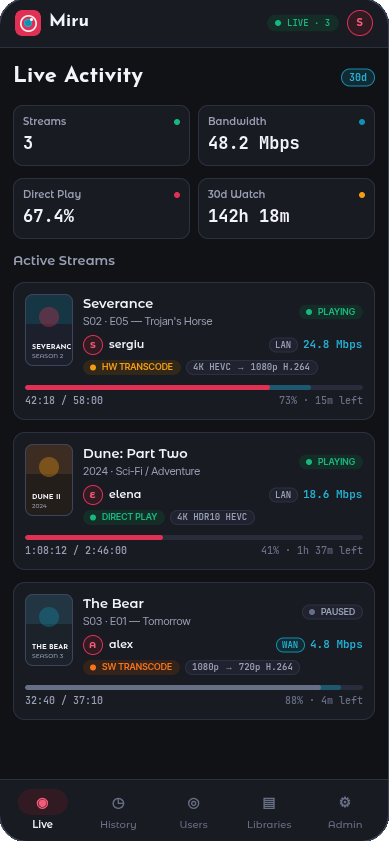
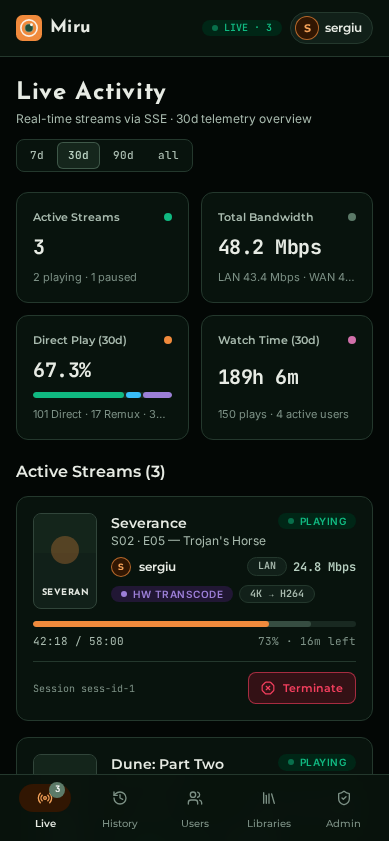
fix(miru): update screenshots for the Hononeko palette (#32)
Replace the Prism Rose Miru desktop and mobile screenshots with fresh captures from the Hononeko tabby/spruce theme, and update the desktop screenshot height attribute to 1104.

diff --git a/public/miru/index.html b/public/miru/index.html
@@ -11,7 +11,7 @@
   <meta property="og:description" content="Lightweight media server telemetry, live stream monitor, playback history tracker, and library analytics.">
   <meta property="og:image" content="https://miru.hononeko.app/_shared/screenshots/miru-web.png">
   <meta property="og:image:width" content="1440">
-  <meta property="og:image:height" content="978">
+  <meta property="og:image:height" content="1104">
   <meta property="og:type" content="website">
   <meta property="og:site_name" content="hononeko">
   <meta property="og:url" content="https://miru.hononeko.app/">
@@ -89,7 +89,7 @@
   <main id="main">
     <div class="wrap">
       <figure class="shot-app">
-        <img src="/_shared/screenshots/miru-web.png" width="1440" height="978" alt="Miru desktop Live Activity dashboard showing active Plex streams, LAN and WAN bandwidth, 30-day direct play percentage, watch time, live session breakdown, plays per day, and top watched titles.">
+        <img src="/_shared/screenshots/miru-web.png" width="1440" height="1104" alt="Miru desktop Live Activity dashboard showing active Plex streams, LAN and WAN bandwidth, 30-day direct play percentage, watch time, live session breakdown, plays per day, and top watched titles.">
       </figure>
     </div>
 
